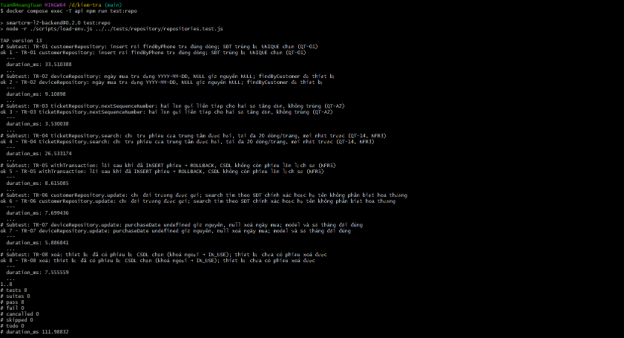
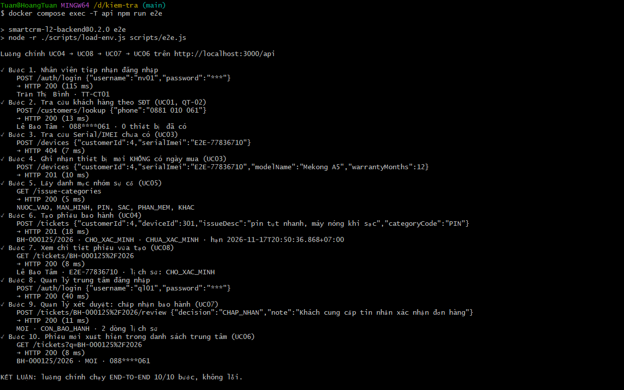
docs(screenshots): bổ sung ảnh crud 17/17 và chi tiết job dong-goi, sửa tên ảnh trong Test Report

Changed region(s): [[0.0, 0.0, 0.7612, 1.0]]

diff --git a/docs/test-report.md b/docs/test-report.md
@@ -14,7 +14,7 @@ Sinh viên: Nguyễn Hoàng Tuấn – MSSV 2374802010542 · track SE · Kế ho
 | Lần 2 | như trên | `npm run test:repo` · `npm run e2e` · `npm run crud` | 8/8 · 10/10 bước · 17/17 bước | `docs/screenshots/tich-hop.png` |
 | Lần 3 | tag `v1.0`, trong container (máy trắng) | `docker compose exec -T api npm test` | **64/64 PASS** | `docs/screenshots/bt3-npm-test.png` |
 | Lần 3 | như trên | `docker compose exec -T api npm run st` | **12/12 PASS** | `docs/screenshots/bt3-st.png` |
-| Lần 3 | như trên | `… npm run test:repo` · `… npm run e2e` · `… npm run crud` | 8/8 · 10/10 bước · 17/17 bước | `docs/screenshots/bt3-tich-hop.png` |
+| Lần 3 | như trên | `… npm run test:repo` · `… npm run e2e` · `… npm run crud` | 8/8 · 10/10 bước · 17/17 bước | `bt3-tich-hop-1.png` (repo) · `-3.png` (e2e) · `-2.png` (crud) |
 
 Trước khi sửa BUG-14, lần 3 **không chạy được**: trên mã của Buổi 14, `docker compose exec -T api npm test` báo không tìm thấy tệp test, và `npm run st` dừng vì không có `.env` (ảnh `BUG-14-truoc.png`). Ba FAIL của lần 1 được ghi trung thực, gỡ theo bốn bước và ghi `docs/bug-log.md` ngay khi gặp: ST-11 → **BUG-11 (Critical)**, ST-08 → **BUG-12**, ST-09 → **BUG-13**; mỗi bug một commit `fix(…): … (BUG-xx)`. Chạy lại một test case bất kỳ: `npm run st -- ST-xx`.
 
